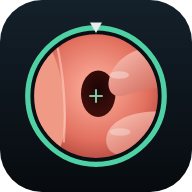
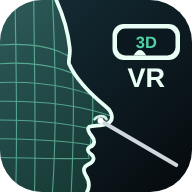
Nombre EndoNasal 3DSim en títulos y acceso; ícono nuevo: perfil de nariz en malla 3D con endoscopio y visor VR
Claude-Session: https://claude.ai/code/session_0179Tmwv7z6srGFg4oT1cXVz

diff --git a/index.html b/index.html
@@ -11,7 +11,7 @@
 <meta name="mobile-web-app-capable" content="yes">
 <meta name="apple-mobile-web-app-title" content="EndoNasal 3DSim">
 <meta name="application-name" content="EndoNasal 3DSim">
-<title>Simulador de Cirugía Endoscópica Nasosinusal</title>
+<title>EndoNasal 3DSim · Simulador de Cirugía Endoscópica Nasosinusal</title>
 <style>
   :root{--bg:rgba(14,16,20,.86);--fg:#e9ecef;--mut:#9aa3ad;--acc:#4fd1a5;--warn:#ff5a5a;--line:rgba(255,255,255,.1)}
   *{box-sizing:border-box}
@@ -120,7 +120,7 @@
 <button id="toggleP">☰ Controles</button><button id="toggleI">ℹ Info</button>
 
 <div id="panel" class="panel">
-  <h1>Simulador CENS</h1>
+  <h1>EndoNasal 3DSim</h1>
   <div class="sub">Cirugía endoscópica nasosinusal — anatomía y márgenes de seguridad</div>
   <div class="grp"><label>Modo de práctica</label>
     <div class="seg" id="pmode"><button data-v="free" class="on">Libre</button><button data-v="guided">Cirugía guiada</button></div>
@@ -5072,11 +5072,11 @@ if (HAB) { if (PH6) $('#chkHA').checked = false; $('#chkHA').onchange = haApply;
 let last = performance.now(), frameN = 0;
 placeAnatomy();
 goTo(TOUR[0]); state.anim.t = 1;
-if (PH3) { segOn('model', 'generic'); $('h1').textContent = 'Simulador CENS · Fantoma 3 (angiofibroma)'; setTimeout(() => toast('Fantoma 3: angiofibroma juvenil nasofaríngeo derecho. Ocupa la fosa nasal posterior, pasa por el foramen esfenopalatino a la fosa pterigopalatina e invade el basiesfenoides. Hacé la resección en Cirugía guiada.', 9000), 600); }
-if (PH5) { segOn('model', 'generic'); $('h1').textContent = 'Simulador CENS · Septum desviado'; setTimeout(() => toast('Septum desviado: desviación en C hacia la fosa derecha y espolón condrovomeriano que toca el cornete inferior. Septoplastia: incisión con bisturí, colgajos mucopericóndricos con Freer de ambos lados, separar, resecar espolón y cartílago desviado, reposicionar. Seguila en Cirugía guiada.', 10000), 800); }
-if (PH6) { segOn('model', 'generic'); $('h1').textContent = 'Simulador CENS · Poliposis nasosinusal'; setTimeout(() => toast('Poliposis nasosinusal: pólipos en el meato medio, el receso frontal, el etmoides anterior y posterior, la hendidura olfatoria y el receso esfenoetmoidal. Usá el shaver (sólo tejido blando), la pinza cortante o la de agarre. Base: Fantoma Human Atlas.', 10000), 800); }
-if (PH4) { segOn('model', 'generic'); $('h1').textContent = 'Simulador CENS · Fantoma Human Atlas'; setTimeout(() => toast('Fantoma Human Atlas: la fosa del Fantoma 2 con la órbita (globo, rectos, oblicuo superior), el nervio óptico, la carótida interna y la basilar ubicados según Z-Anatomy. La capa de mallas reales (vasos, senos cavernosos, pares craneales, hipófisis, quiasma) se activa en el panel; con rayos X se ven por transparencia.', 10000), 800); }
-if (PH2) { segOn('model', 'generic'); setAtlas(true); $('h1').textContent = 'Simulador CENS · Fantoma 2'; setTimeout(() => toast('Fantoma 2: proporciones del promedio de TC normales. Etmoides más corto (bulla grande, receso retrobullar corto, lamela basal oblicua a ~11 mm del esfenoides) y arterias etmoidales según la regla 24-12-6. Colores de atlas activados (podés pasar a mucosa).', 9000), 800); }
+if (PH3) { segOn('model', 'generic'); $('h1').textContent = 'EndoNasal 3DSim · Fantoma 3 (angiofibroma)'; setTimeout(() => toast('Fantoma 3: angiofibroma juvenil nasofaríngeo derecho. Ocupa la fosa nasal posterior, pasa por el foramen esfenopalatino a la fosa pterigopalatina e invade el basiesfenoides. Hacé la resección en Cirugía guiada.', 9000), 600); }
+if (PH5) { segOn('model', 'generic'); $('h1').textContent = 'EndoNasal 3DSim · Septum desviado'; setTimeout(() => toast('Septum desviado: desviación en C hacia la fosa derecha y espolón condrovomeriano que toca el cornete inferior. Septoplastia: incisión con bisturí, colgajos mucopericóndricos con Freer de ambos lados, separar, resecar espolón y cartílago desviado, reposicionar. Seguila en Cirugía guiada.', 10000), 800); }
+if (PH6) { segOn('model', 'generic'); $('h1').textContent = 'EndoNasal 3DSim · Poliposis nasosinusal'; setTimeout(() => toast('Poliposis nasosinusal: pólipos en el meato medio, el receso frontal, el etmoides anterior y posterior, la hendidura olfatoria y el receso esfenoetmoidal. Usá el shaver (sólo tejido blando), la pinza cortante o la de agarre. Base: Fantoma Human Atlas.', 10000), 800); }
+if (PH4) { segOn('model', 'generic'); $('h1').textContent = 'EndoNasal 3DSim · Fantoma Human Atlas'; setTimeout(() => toast('Fantoma Human Atlas: la fosa del Fantoma 2 con la órbita (globo, rectos, oblicuo superior), el nervio óptico, la carótida interna y la basilar ubicados según Z-Anatomy. La capa de mallas reales (vasos, senos cavernosos, pares craneales, hipófisis, quiasma) se activa en el panel; con rayos X se ven por transparencia.', 10000), 800); }
+if (PH2) { segOn('model', 'generic'); setAtlas(true); $('h1').textContent = 'EndoNasal 3DSim · Fantoma 2'; setTimeout(() => toast('Fantoma 2: proporciones del promedio de TC normales. Etmoides más corto (bulla grande, receso retrobullar corto, lamela basal oblicua a ~11 mm del esfenoides) y arterias etmoidales según la regla 24-12-6. Colores de atlas activados (podés pasar a mucosa).', 9000), 800); }
 renderer.setAnimationLoop(() => {
   if (state.busy && !state.vr) return;   // durante la carga de la TC se pausa el render para acelerar
   const now = performance.now(), dt = Math.min(0.05, (now - last) / 1000); last = now;

diff --git a/basico.html b/basico.html
@@ -11,7 +11,7 @@
 <meta name="mobile-web-app-capable" content="yes">
 <meta name="apple-mobile-web-app-title" content="EndoNasal 3DSim">
 <meta name="application-name" content="EndoNasal 3DSim">
-<title>Fantoma 1 · Simulador de Cirugía Endoscópica Nasosinusal</title>
+<title>Fantoma 1 · EndoNasal 3DSim</title>
 <style>
   :root{--bg:rgba(14,16,20,.86);--fg:#e9ecef;--mut:#9aa3ad;--acc:#4fd1a5;--warn:#ff5a5a;--line:rgba(255,255,255,.1)}
   *{box-sizing:border-box}
@@ -96,7 +96,7 @@
 <button id="toggleP">☰ Controles</button><button id="toggleI">ℹ Info</button>
 
 <div id="panel" class="panel">
-  <h1>Simulador CENS · Fantoma 1 (básico)</h1>
+  <h1>EndoNasal 3DSim · Fantoma 1 (básico)</h1>
   <div class="sub">Cirugía endoscópica nasosinusal — anatomía y márgenes de seguridad</div>
   <div class="grp"><label>Modo de práctica</label>
     <div class="seg" id="pmode"><button data-v="free" class="on">Libre</button><button data-v="guided">Cirugía guiada</button></div>

diff --git a/acceso.js b/acceso.js
@@ -44,7 +44,7 @@
 
   function vistaIngreso(msg = '') {
     const mail = localStorage.getItem(LS_MAIL) || '';
-    show(`<h2>Simulador CENS</h2><p>Ingresá con tu mail y tu clave de 4 dígitos.</p>
+    show(`<h2>EndoNasal 3DSim</h2><p>Ingresá con tu mail y tu clave de 4 dígitos.</p>
       <label>Mail</label><input id="aMail" type="email" autocomplete="email" value="${mail.replace(/"/g, '')}">
       <label>Clave (4 dígitos)</label><input id="aPin" class="pin" type="password" inputmode="numeric" autocomplete="current-password" maxlength="4">
       <div class="err" id="aErr">${msg}</div>

diff --git a/sw.js b/sw.js
@@ -1,6 +1,6 @@
 // EndoNasal 3DSim: service worker mínimo para que la app se pueda instalar.
 // Siempre busca la versión más nueva en internet; sólo si no hay conexión muestra la última guardada.
-const CACHE = 'endonasal-v1';
+const CACHE = 'endonasal-v2';
 self.addEventListener('install', e => { self.skipWaiting(); });
 self.addEventListener('activate', e => { e.waitUntil(self.clients.claim()); });
 self.addEventListener('fetch', e => {
